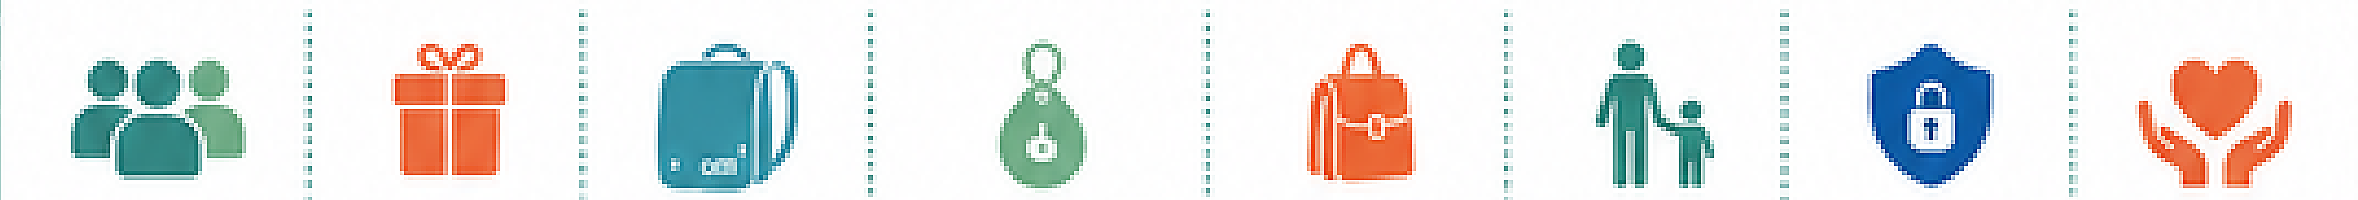
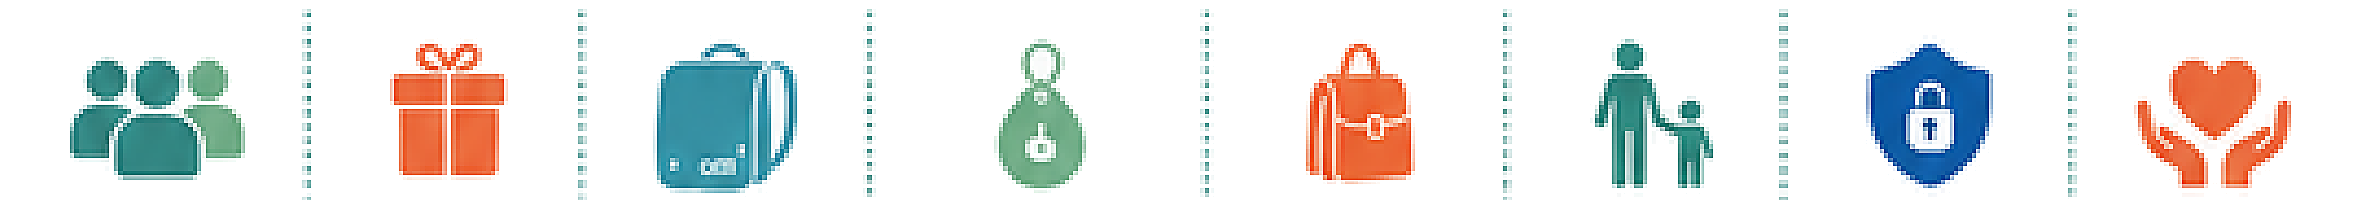
1ページ目のアイコンの帯を、白いカードの枠に収めた
帯の画像には切り出し元のパネルの白地と左枠線（緑）が焼き込まれていた。
カード（3%〜97%）より外まで置かれていたため、白地の四角と緑の縦線が
枠の外にはみ出し、右側は線が途切れて見えていた。

左枠線を1px落として地を透過にし、枠はカード側の border だけにした。
これで左右とも同じ線が出て、途切れもなくなる。

left/width は切り落とした1pxぶんだけずらしてあるので、アイコンと下の
ラベルの位置関係は変わっていない。図柄は紙の 5.4%〜94.8% に収まり、
カードの内側に左右ほぼ均等（2.4% / 2.2%）で入る。

Closes #44

diff --git a/flyers/school/index.html b/flyers/school/index.html
@@ -26,7 +26,13 @@
 
   <!-- 下部の帯 -->
   <div class="a" style="left:3%;top:83.8%;width:94%;height:15.2%;background:#fff;border:1px solid var(--line);border-radius:1.6cqw;z-index:1;"></div>
-  <img class="a" src="images/p1_icon_strip.png" style="left:2.5%;top:88%;width:95%;z-index:2;" alt="配布・活用シーンのアイコン一覧">
+  <!--
+    アイコンの帯。切り出し元のパネルの白地と左枠線が焼き込まれていて、
+    白いカードの枠からはみ出していた。地は透過にしてあるので、枠は
+    このカード側の border だけになる（左右とも同じ線が出る）。
+    left/width は1px切り落としたぶんだけずらしてあり、アイコンの位置は変えていない。
+  -->
+  <img class="a" src="images/p1_icon_strip.png" style="left:2.5403%;top:88%;width:94.959%;z-index:2;" alt="配布・活用シーンのアイコン一覧">
 
   <!-- 見出しの飾り線 -->
   <div class="a" style="left:6.2%;top:6.7%;width:29%;border-bottom:0.25cqw solid var(--teal);z-index:2;"></div>
